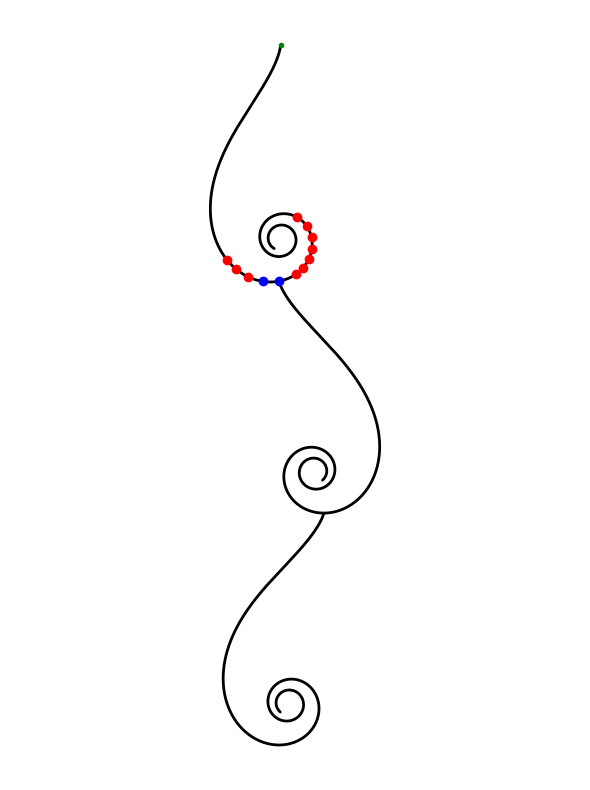
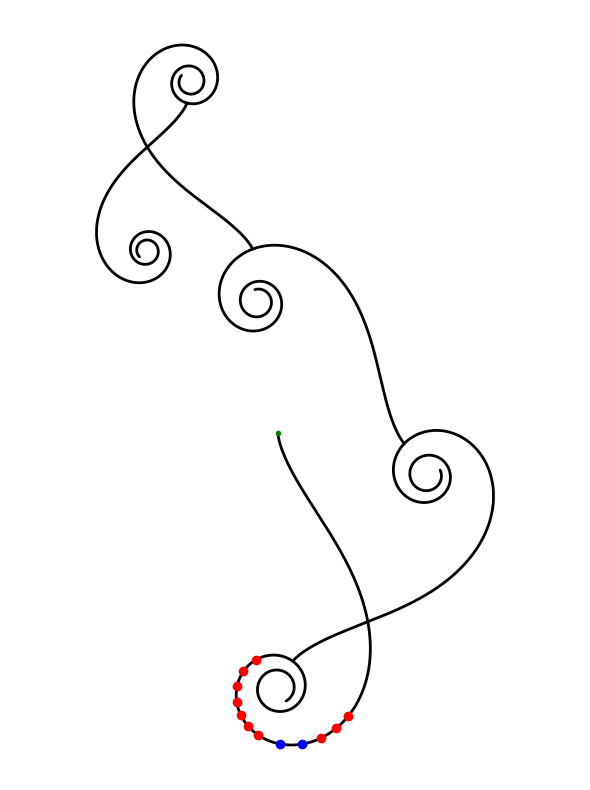
bug-fixes

diff --git a/curve.py b/curve.py
@@ -2,6 +2,16 @@ import numpy as np
 
 
 class Curve:
+    """
+    A class representing a tractrix shape
+
+    Attributes:
+        x_orig (float): origin point (x-axis)
+        y_orig (float): origin point (y-axis)
+        scale (float): scale of the shape, where 1.0 is "original size"
+        angle_deg (float): angle in degrees between vector pointing south and stem of the shape (measured clockwise). if angle_deg = 0, shape will start to grow to south initially.
+        mirror (bool): whether to mirror the shape along y-axis (vertically)
+    """
     def __init__(self, x_orig, y_orig, scale, angle_deg, mirror):
         self.x_orig = x_orig
         self.y_orig = y_orig
@@ -33,14 +43,18 @@ class Curve:
         x_base = self.scale * x_base
         y_base = self.scale * y_base
 
-        # Rotate by 90 degrees (pi/2) to orient it like an upright question mark/fern; then rotate by angle
-        angle_rad = np.radians(self.angle_deg)
-        rotation_angle = np.pi / 2 - angle_rad
-        x = x_base * np.cos(rotation_angle) - y_base * np.sin(rotation_angle)
-        y = x_base * np.sin(rotation_angle) + y_base * np.cos(rotation_angle)
+        # Rotate by 90 degrees (pi/2) to orient it like an upright question mark/fern
+        x_rotated = x_base * np.cos(np.pi / 2) - y_base * np.sin(np.pi / 2)
+        y_rotated = x_base * np.sin(np.pi / 2) + y_base * np.cos(np.pi / 2)
 
+        # if requested, add mirroring
         if self.mirror == True:
-            x = -x
+            x_rotated = -x_rotated
+
+        # Turn by requested angle (clockwise)
+        angle_rad = np.radians(-self.angle_deg)
+        x = x_rotated * np.cos(angle_rad) - y_rotated * np.sin(angle_rad)
+        y = x_rotated * np.sin(angle_rad) + y_rotated * np.cos(angle_rad)
         
         # Move to correct location
         x = x + self.x_orig
@@ -69,16 +83,20 @@ class Curve:
         # Scale by a
         x_base = self.scale * x_base
         y_base = self.scale * y_base
-
+        
         # Rotate by 90 degrees (pi/2) to orient it like an upright question mark/fern
-        angle_rad = np.radians(self.angle_deg)
-        rotation_angle = np.pi / 2 - angle_rad
-        x = x_base * np.cos(rotation_angle) - y_base * np.sin(rotation_angle)
-        y = x_base * np.sin(rotation_angle) + y_base * np.cos(rotation_angle)
+        x_rotated = x_base * np.cos(np.pi / 2) - y_base * np.sin(np.pi / 2)
+        y_rotated = x_base * np.sin(np.pi / 2) + y_base * np.cos(np.pi / 2)
 
+        # if requested, add mirroring
         if self.mirror == True:
-            x = -x
+            x_rotated = -x_rotated
 
+        # Turn by requested angle (clockwise)
+        angle_rad = np.radians(-self.angle_deg)
+        x = x_rotated * np.cos(angle_rad) - y_rotated * np.sin(angle_rad)
+        y = x_rotated * np.sin(angle_rad) + y_rotated * np.cos(angle_rad)
+        
         # Move to correct location
         x = x + self.x_orig
         y = y + self.y_orig
@@ -86,9 +104,7 @@ class Curve:
         return x, y
 
 
-    # TODO add mirror? remove from params here
-    # TODO add angle_deg? remove from params here
-    def get_direction_angle(self, t, angle_deg=0, mirror=False):
+    def get_direction_angle(self, t):
         # Using small epsilon for finite difference to get tangent
         eps = 1e-5
         def get_coords(time):
@@ -103,12 +119,25 @@ class Curve:
         dx = (x2 - x1) / eps
         dy = (y2 - y1) / eps
         
-        # Standard angle in radians (East = 0)
+        # Standard angle in radians (East = 0, counting counter-clockwise)
         alpha = np.arctan2(dy, dx)
         
-        # Convert to degrees and shift so South = 0, East = 90
-        phi = np.degrees(alpha) + 90
+        # Convert to degrees
+        phi = np.degrees(alpha)
+
+        # Inverse (East = 0, counting clockwise)
+        phi = -phi
         
+        # shift so South = 0, West = 90   
+        phi = phi - 90
+
+        # Consider mirroring
+        if self.mirror:
+            phi = -phi
+
+        # Consider original rotation of the shape
+        phi = phi + self.angle_deg
+
         return phi % 360
 
 
@@ -121,7 +150,7 @@ class Curve:
 
     def branch_at_point(self, t, scale, mirror):
         # find origin point for the new curve
-        x_new, y_new = self.calculate_point(t=1.35)
-        new_angle_deg = self.get_direction_angle(t=1.35, angle_deg=self.angle_deg, mirror=self.mirror)
+        x_new, y_new = self.calculate_point(t)
+        new_angle_deg = self.get_direction_angle(t)
         new_curve = Curve(x_orig=x_new, y_orig=y_new, mirror=mirror, angle_deg = new_angle_deg, scale=scale)
         return new_curve

diff --git a/fractal.py b/fractal.py
@@ -2,9 +2,8 @@ import numpy as np
 import matplotlib.pyplot as plt
 from curve import Curve
 
-
-# Generate the coordinates
-curve1 = Curve(x_orig=0, y_orig=0, scale=1.0, angle_deg=0, mirror=False)
+# First curve
+curve1 = Curve(x_orig=0, y_orig=0, scale=1.0, angle_deg=0, mirror=True)
 x, y = curve1.generate_spiral()
 
 # Plot the curve
@@ -12,13 +11,23 @@ plt.figure(figsize=(6, 8), dpi=100)
 plt.plot(x, y, color='black', linewidth=2, solid_capstyle='round')
 
 # Second curve
-curve2 = curve1.branch_at_point(t=1.35, scale=1.0, mirror=True)
+curve2 = curve1.branch_at_point(t=1.45, scale=0.9, mirror=False) 
 x, y = curve2.generate_spiral()
 plt.plot(x, y, color='black', linewidth=2, solid_capstyle='round')
 
-# ### Third curve
-curve3 = curve2.branch_at_point(t=1.4, mirror=False, scale=1.0)
+# Third curve
+curve3 = curve2.branch_at_point(t=1.4, scale=0.8,  mirror=False)
 x, y = curve3.generate_spiral()
+plt.plot(x, y, color='black', linewidth=2, solid_capstyle='round')
+
+# 4th curve
+curve4 = curve3.branch_at_point(t=1.31, scale=0.7, mirror=True)
+x, y = curve4.generate_spiral()
+plt.plot(x, y, color='black', linewidth=2, solid_capstyle='round')
+
+# 5th curve
+curve5 = curve4.branch_at_point(t=1.45, scale=0.6, mirror=False)
+x, y = curve5.generate_spiral()
 plt.plot(x, y, color='black', linewidth=2, solid_capstyle='round')
 
 # Plot origin
